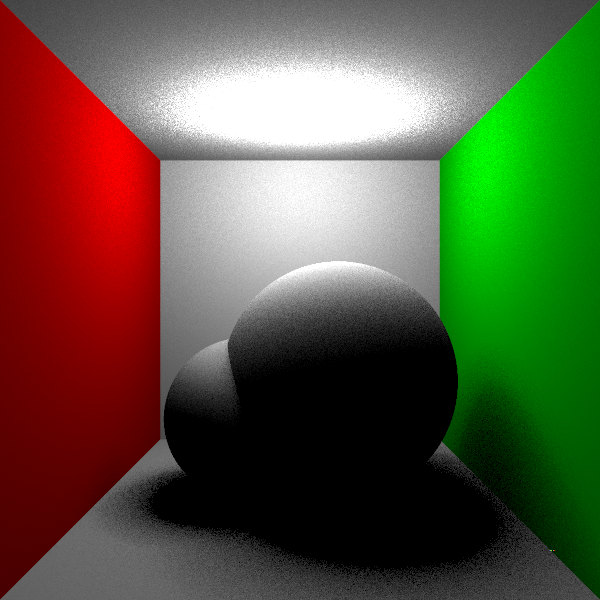
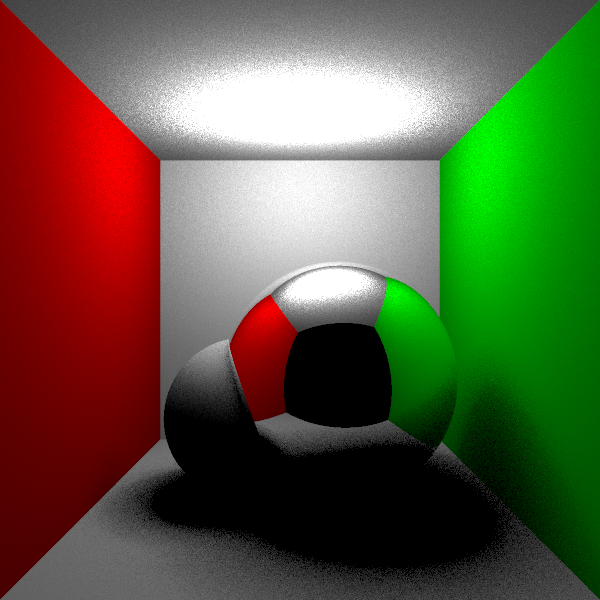
Add quad and triangle support

diff --git a/Main.py b/Main.py
@@ -12,6 +12,8 @@ from Geo.Vector import Vector
 from Geo.Ray import Ray
 from Geo.Sphere import Sphere
 from Geo.Plane import Plane
+from Geo.Triangle import Triangle
+from Geo.Quad import Quad
 from Geo.Material import Material
 from Geo.Geometry import Geometry
 
@@ -37,18 +39,24 @@ def main():
 	#-------Scene--------
 	#important! This is a right handed coordinate system!
 	sphere01 = Sphere(Vector(-15,-30,-136),20,material=whiteLambert)
-	sphere02 = Sphere(Vector(10,-20,-136),30,material=whiteLambert)
-	plane01 = Plane(Vector(0,-50,-136),Vector(0,1,0),material=whiteLambert) #bottom wall
-	plane02 = Plane(Vector(-50,0,-136),Vector(1,0,0),material=redLambert) #left wall
-	plane03 = Plane(Vector(0,0,-186),Vector(0,0,1),material=whiteLambert) #back wall
-	plane04 = Plane(Vector(50,0,-136),Vector(-1,0,0),material=greenLambert) #right wall
-	plane05 = Plane(Vector(0,50,-136),Vector(0,-1,0),material=whiteLambert) #top wall
-	testPlane = Plane(Vector(0,30,-136),Vector(0,-1,0),w=20,h=20)
+	sphere02 = Sphere(Vector(10,-20,-136),30,material=mirror)
+	#plane01 = Plane(Vector(0,-50,-136),Vector(0,1,0),material=whiteLambert) #bottom wall
+	#plane02 = Plane(Vector(-50,0,-136),Vector(1,0,0),material=redLambert) #left wall
+	#plane03 = Plane(Vector(0,0,-186),Vector(0,0,1),material=whiteLambert) #back wall
+	#plane04 = Plane(Vector(50,0,-136),Vector(-1,0,0),material=greenLambert) #right wall
+	#plane05 = Plane(Vector(0,50,-136),Vector(0,-1,0),material=whiteLambert) #top wall
+	#tri01 = Triangle(Vector(0,40,-136),Vector(-20,20,-136),Vector(20,20,-156),material=mirror)
+	quad01 = Quad(Vector(-50,-50,-186),Vector(-50,-50,-76),Vector(50,-50,-76),Vector(50,-50,-186),material=whiteLambert) #bottom wall
+	quad02 = Quad(Vector(-50,50,-76),Vector(-50,-50,-76),Vector(-50,-50,-186),Vector(-50,50,-186),material=redLambert) #left wall
+	quad03 = Quad(Vector(-50,50,-186),Vector(-50,-50,-186),Vector(50,-50,-186),Vector(50,50,-186),material=whiteLambert)  #back wall
+	quad04 = Quad(Vector(50,50,-186),Vector(50,-50,-186),Vector(50,-50,-76),Vector(50,50,-76),material=greenLambert) #right wall
+	quad05 = Quad(Vector(-50,50,-76),Vector(-50,50,-186),Vector(50,50,-186),Vector(50,50,-76),material=whiteLambert) #top wall
+
 	light01 = DiskLight(Vector(0,40,-150),30) #light source on the top
 	light02 = PointLight(Vector(-20,40,-160))
 	light03 = PointLight(Vector(20,30,-90))
 
-	newScene = Scene({"geometry":[sphere01,sphere02,plane01,plane02,plane03,plane04,plane05],"light":[light01]})
+	newScene = Scene({"geometry":[sphere01,sphere02,quad01,quad02,quad03,quad04,quad05],"light":[light01]})
 
 	cam = Camera(Vector(0,0,0),Vector(0,0,1),60)
 

diff --git a/Geo/Triangle.py b/Geo/Triangle.py
@@ -1,5 +1,48 @@
-from Geo.Geometry import Geometry
+from Geo.Plane import Plane
+from Geo.Vector import Vector
+from Geo.Material import Material
+from Geo.Vector import Vector
 
-class Triangle(Geometry):
-    def __init__(self,p1,p2,p3):
-        super().__init__()
+class Triangle(Plane):
+    def __init__(self,p0,p1,p2,material=Material()):
+        #Define the 3 vertices of the triangle in counter-clockwise order!
+        self.p0 = p0
+        self.p1 = p1
+        self.p2 = p2
+        self.normal = (self.p1 - self.p0).cross(self.p2 - self.p0).normalized()
+        self.pos = self.p0
+
+        super().__init__(self.pos, self.normal)
+        self.material = material
+        self.type = "Triangle"
+
+    def getIntersection(self,ray,closestHit,result):
+        if Plane.getIntersection(self,ray,closestHit,result):
+            if result[1] == self.p0 or result[1] == self.p1 or result[1] == self.p2:
+                return True
+            #1. Check if ray intersects the triangle's plane
+            #2. Check if hit point is inside the triangle
+            cross00 = (self.p1 - self.p0).cross(result[1] - self.p0)
+            cross01 = (self.p2 - self.p1).cross(result[1] - self.p1)
+            cross02 = (self.p0 - self.p2).cross(result[1] - self.p2)
+            crossList = [cross00,cross01,cross02]
+            dotList = []
+
+            testCnt = 0
+            for eachCross in crossList:
+                if eachCross.length() == 0:
+                    #If hit point is on one of the edges, the cross product is zero
+                    testCnt += 1
+                else:
+                    if eachCross.normalized().dot(self.normal) > 0:
+                        testCnt += 1
+
+            if testCnt == 3:
+                return True
+            else:
+                result.clear()
+                return False
+
+        else:
+            result.clear() #Must clear the result list if return false. Result will be passes back anyway
+            return False

diff --git a/Geo/Plane.py b/Geo/Plane.py
@@ -4,25 +4,13 @@ from Geo.Material import Material
 from Geo.Vector import Vector
 
 class Plane(Geometry):
-	def __init__(self,pos,normal,w=None,h=None,material=Material()):
+	def __init__(self,pos,normal,material=Material()):
+		#This is an infinite plane
 		super().__init__(material)
-		self.type = "InfinitePlane"
-		if w != None and h != None:
-			#FinitePlane
-			self.Type = "Plane"
-			self.width = w
-			self.height = h
-			self.p0 = pos + Vector(w/2,0,h/2)
-			self.p1 = pos + Vector(-w/2,0,h/2)
-			self.p2 = pos + Vector(-w/2,0,-h/2)
-			self.p3 = pos + Vector(w/2,0,-h/2)
-
+		self.type = "Plane"
 		self.pos = pos
 		self.normal = normal
 		self.epsilon = 0.0001
-
-	def type(self):
-		return self.type
 
 	def getIntersection(self,ray,closestHit,result):
 		#t = (anyplanePoint - ray.origin).dot(plane.normal) / (ray.dir.dot(plane.normal))
@@ -37,6 +25,7 @@ class Plane(Geometry):
 		hitPos = ray.origin + ray.dir*t
 		hitNormal = self.normal
 
+		result.clear()
 		result.extend([t,hitPos,hitNormal,self.objectId])
 
 		return True

diff --git a/Geo/Quad.py b/Geo/Quad.py
@@ -1,0 +1,19 @@
+from Geo.Triangle import Triangle
+from Geo.Geometry import Geometry
+from Geo.Material import Material
+
+class Quad(Geometry):
+    def __init__(self,p0,p1,p2,p3,material = Material()):
+        #Quad is 2 triangles, define in a counter-clockwise order
+        self.triList = [Triangle(p0,p1,p2),Triangle(p0,p2,p3)]
+        self.material = material
+        self.type = "Quad"
+
+    def getIntersection(self,ray,closestHit,result):
+        for eachTri in self.triList:
+            if eachTri.getIntersection(ray,closestHit,result):
+                #Important, overide object Id, otherwise the id of triangle will be returned, which is 0
+                result[3] = self.objectId
+                return True
+
+        return False

diff --git a/Geo/Sphere.py b/Geo/Sphere.py
@@ -9,9 +9,6 @@ class Sphere(Geometry):
 		self.radius = float(radius) #radius is a scalar
 		self.epsilon = 0.0001
 
-	def type(self):
-		return "Sphere"
-
 	def getIntersection(self,ray,closestHit,result):
 		#result is a list storing calculated data [hit_t, hit_pos,hit_normal]
 		#the input result might already contain a hit_t
@@ -43,5 +40,6 @@ class Sphere(Geometry):
 			hitPos = ray.origin + ray.dir*t
 			hitNormal = (hitPos - self.pos).normalized()
 
+			result.clear()
 			result.extend([t,hitPos,hitNormal,self.objectId])
 			return True

diff --git a/Geo/Geometry.py b/Geo/Geometry.py
@@ -6,6 +6,10 @@ class Geometry:
         #Object ID is an integer, and is unique
         self.objectId = objectId
         self.material = material
+        self.type = "Geometry"
 
     def getObjectId(self):
         return self.objectId
+
+    def getType(self):
+        return self.type

diff --git a/Scene.py b/Scene.py
@@ -39,7 +39,6 @@ class Scene:
 
 		closestHitResult = []
 
-
 		for obj in self.geo:
 			if obj.getIntersection(ray,closestHit,result):
 				hitBool = True

diff --git a/README.md b/README.md
@@ -9,8 +9,8 @@
     * Sphere intersection [✓]
     * Plane intersection [✓]
     * Cube Intersection
-    * Triangle intersection
-    * Quad intersection
+    * Triangle intersection [✓]
+    * Quad intersection [✓]
 
   * Camera:
     * Camera exposure
@@ -46,3 +46,4 @@
   * multiprocessing [✓]
   * Separate thread for window [✓]
   * Render time calculation [✓]
+  * Interactive Render
